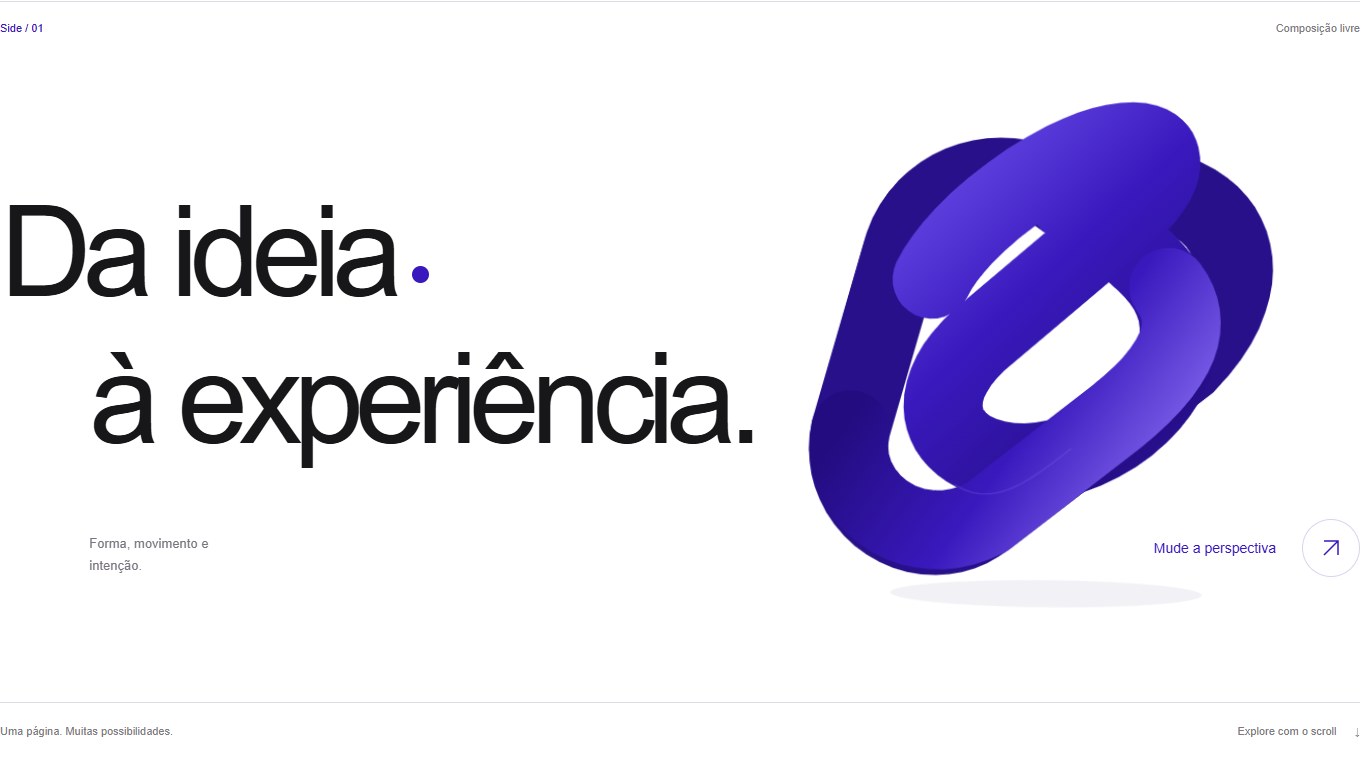
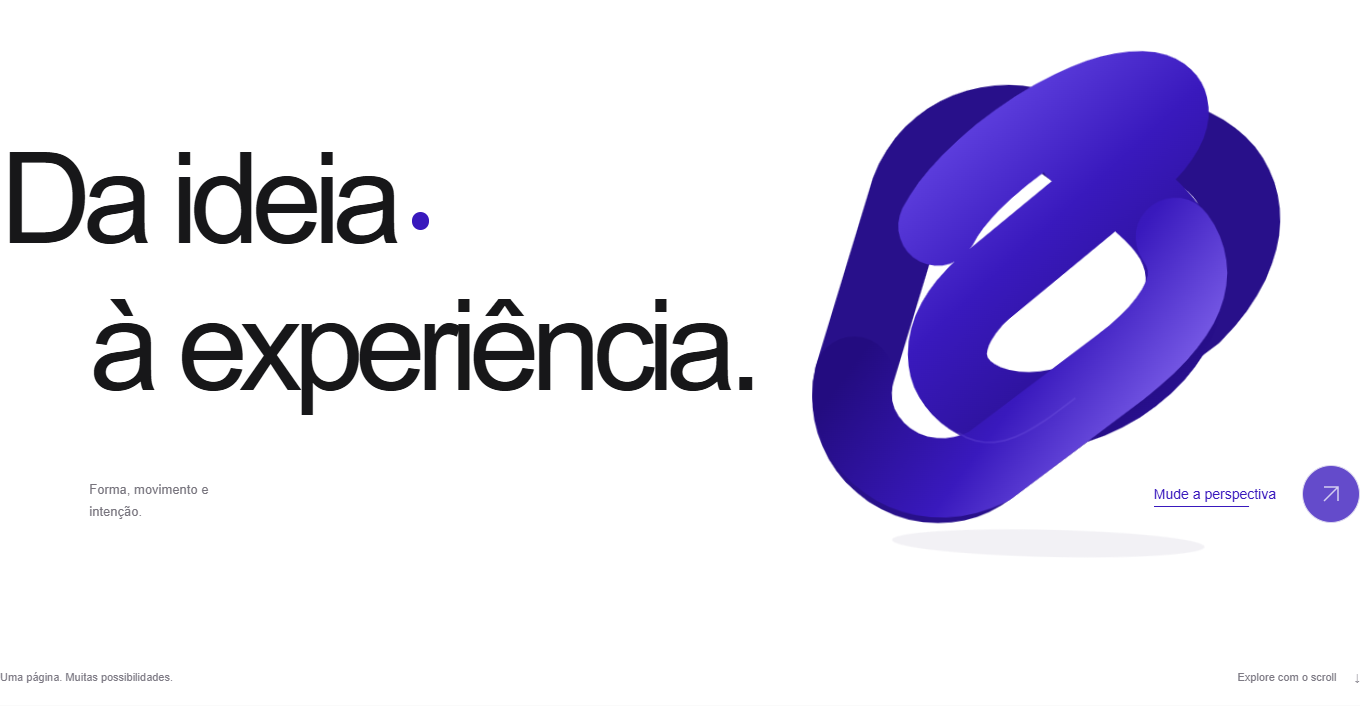
docs(services): track perspective refinement and pending art direction

diff --git a/docs/validation/services-digital-experience.md b/docs/validation/services-digital-experience.md
@@ -4,7 +4,7 @@ Issue [#8](https://github.com/side-development/side-landing-page/issues/8). Bran
 
 ## Status
 
-**Partial. Experiência de sites isolada: Ready for review.** O usuário autorizou avançar após o checkpoint do terminal. Esta prévia aguarda aprovação antes da integração/transições. Sem push/PR, issue aberta.
+**Partial. Experiência de sites isolada em refinamento.** O usuário autorizou avançar após o checkpoint do terminal. As divisórias e os rótulos internos foram removidos; o CTA agora desfaz as fitas e troca o lado da composição. Nova frase e mudança de cor aguardam definição do usuário. Sem push/PR, issue aberta.
 
 ## Prévia
 
@@ -18,7 +18,9 @@ Issue [#8](https://github.com/side-development/side-landing-page/issues/8). Bran
 
 `DigitalExperienceDemo.tsx` é a peça isolada; `DigitalExperienceArtwork.tsx` contém a arte SVG autoral; `useDigitalExperienceMotion.ts` isola reveal, reflow, pointer e composição. Copy, CSS Module e wrapper de review separados. Não existe controlador global da Home ou nova dependência.
 
-Composição branca editorial, tipografia grande com máscaras, ponto roxo, forma abstrata dominante e CTA com ação real. Desktop responde ao ponteiro com deslocamentos limitados; keyboard usa o mesmo CTA, com foco visível e `aria-pressed`. Layout EN considera o maior comprimento do texto. Mobile empilha tipografia/arte/ação e reduz layers; não usa cursor customizado. Reduced motion tem fade curto e mudanças imediatas de perspectiva.
+Composição branca editorial sem linhas divisórias ou rótulos “Side / 01” e “Composição livre”, tipografia grande com máscaras, ponto roxo, forma abstrata dominante e CTA com ação real. Desktop responde ao ponteiro com deslocamentos limitados; keyboard usa o mesmo CTA, com foco visível e `aria-pressed`. Layout EN considera o maior comprimento do texto. Mobile empilha tipografia/arte/ação e reduz layers; não usa cursor customizado. Reduced motion tem fade curto e mudanças imediatas de perspectiva.
+
+No CTA, os paths SVG interpolam de uma forma emaranhada para fitas separadas. A arte passa à esquerda e o texto à direita no desktop; em mobile o texto alinha à direita dentro da composição vertical. O segundo clique restaura a forma/alinhamento. Geometrias finais usam os mesmos tipos e quantidades de comandos SVG, permitindo interpolação no GSAP existente sem novo plugin/dependência. Alinhamento recalculado ao redimensionar.
 
 Scroll é o gatilho principal. Não há screenshot, iframe, laptop, glitch, RGB, animação recorrente ou pinning. Timelines, ScrollTriggers, callbacks do CTA e quickTo estão no contexto local GSAP, com cleanup de listeners e tweens. Arte decorativa `aria-hidden`; headings e copy permanecem semanticamente disponíveis.
 
@@ -58,6 +60,9 @@ QA com Playwright/esbuild temporários fora das dependências do produto. Script
 
 - `services/digital-{desktop,laptop,wide,en,mobile,small-mobile,tablet,reduced,mobile-reduced}.png`;
 - `services/digital-{desktop,en,mobile,reduced}.mp4`: entrada, scroll, hover/CTA e replay.
+- `services/digital-{desktop,mobile,reduced}-open.png`: fitas desfeitas e texto no lado oposto, ainda sem a nova frase/cor.
+
+Os MP4 registram a versão anterior do checkpoint. Os screenshots e a prévia local refletem o refinamento atual; novas gravações completas serão feitas após a definição da frase/cor.
 
 ## Critérios e pendências
 
@@ -66,6 +71,9 @@ QA com Playwright/esbuild temporários fora das dependências do produto. Script
 - [x] Base branca, composição editorial, sem cards/glitch/mockup.
 - [x] pt-BR/EN, teclado, mobile/reduced motion e cleanup no checkpoint isolado.
 - [x] Remoção dos textos “Demo” solicitada pelo usuário.
+- [x] Remoção das divisórias e rótulos internos da peça.
+- [x] CTA desfaz as fitas e muda o lado do texto.
+- [ ] Definição e implementação da nova frase e mudança de cor no CTA.
 - [ ] Aprovação visual da experiência de sites.
 - [ ] Integração da seção contínua, headline `O que construímos. / What we build.` e ordem 01→02→03.
 - [ ] Transições por reorganização/dissolução e escurecimento gradual.

diff --git a/docs/references/services/digital-experience.md b/docs/references/services/digital-experience.md
@@ -20,7 +20,7 @@ Não copiar:
 Adaptação Side:
 - título/copy de serviço exatamente como aprovados na #8;
 - uma composição editorial interativa, com duas linhas de texto e arte original;
-- índice secundário, sem cards ou chrome de navegador falso.
+- composição limpa, sem cards ou chrome de navegador falso; índice e rótulos internos removidos na revisão do usuário.
 
 ### RANGE RAK — Interactive Homepage
 
@@ -48,7 +48,7 @@ Foram reexaminados os frames das gravações originais já registrados nesta pas
 - Texto autoral da peça: “Da ideia / à experiência.”, “Forma, movimento e intenção.”, “Uma página. Muitas possibilidades.”; EN idiomático. A copy comercial do serviço permanece exatamente a da #8.
 - Arte abstrata de fita dobrada criada em SVG; não é logo Side, interface de cliente, mockup ou asset externo.
 - Scroll dispara máscaras de texto, revelação da arte e detalhes. Uma segunda timeline local ajusta escala/alinhamento da arte durante a passagem natural da viewport, sem pinning.
-- CTA “Mude a perspectiva / Shift your perspective” alterna orientação/posição da arte e alinhamento do texto. É um botão real com `aria-pressed`, não um link sem destino.
+- CTA “Mude a perspectiva / Shift your perspective” desfaz as fitas emaranhadas, passa a arte à esquerda e alinha o texto à direita. É um botão real com `aria-pressed`, não um link sem destino. Nova frase e mudança de cor aguardam definição do usuário.
 - Desktop: reação sutil ao ponteiro e CTA magnético. Mobile: composição vertical e menos layers, sem magnetismo/cursor customizado.
 - Reduced motion: fade curto, estado refinado, CTA muda imediatamente a composição, sem pointer motion ou reflow por scroll.
 
